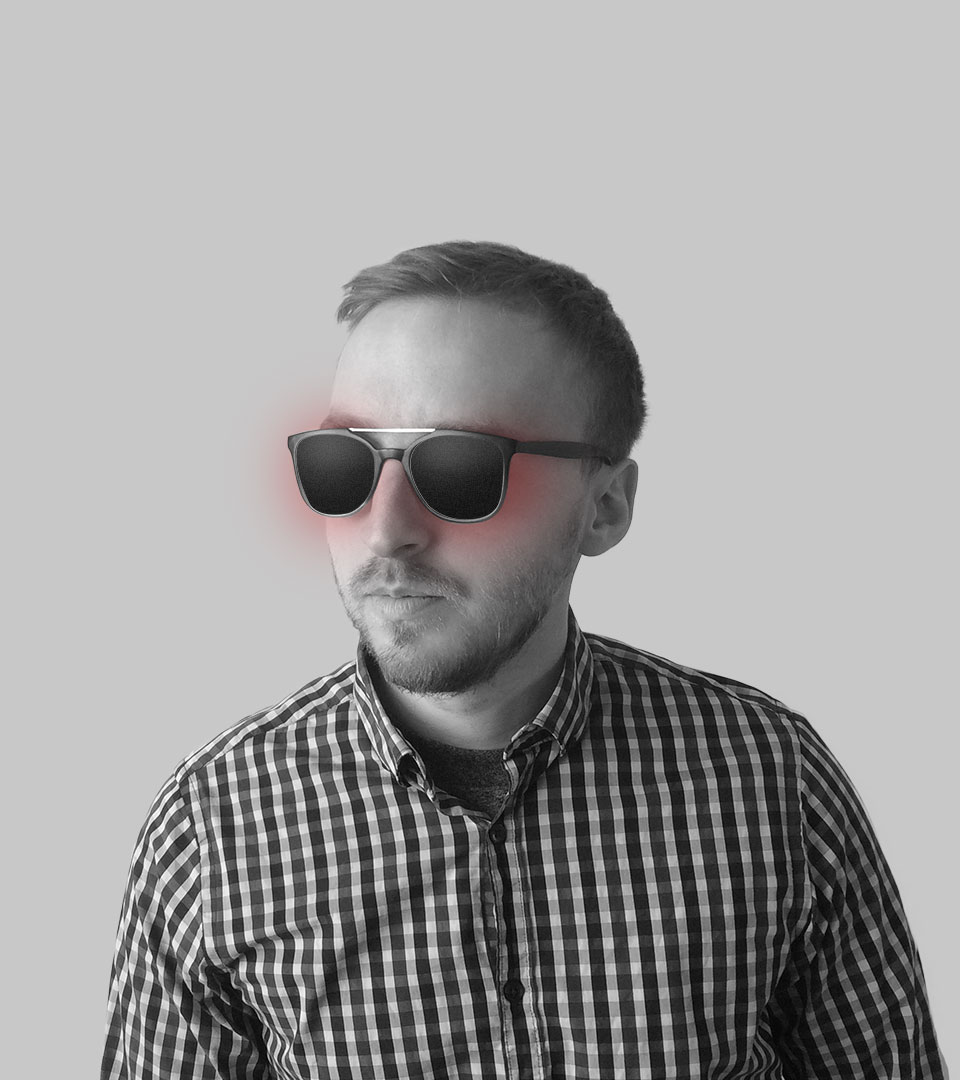
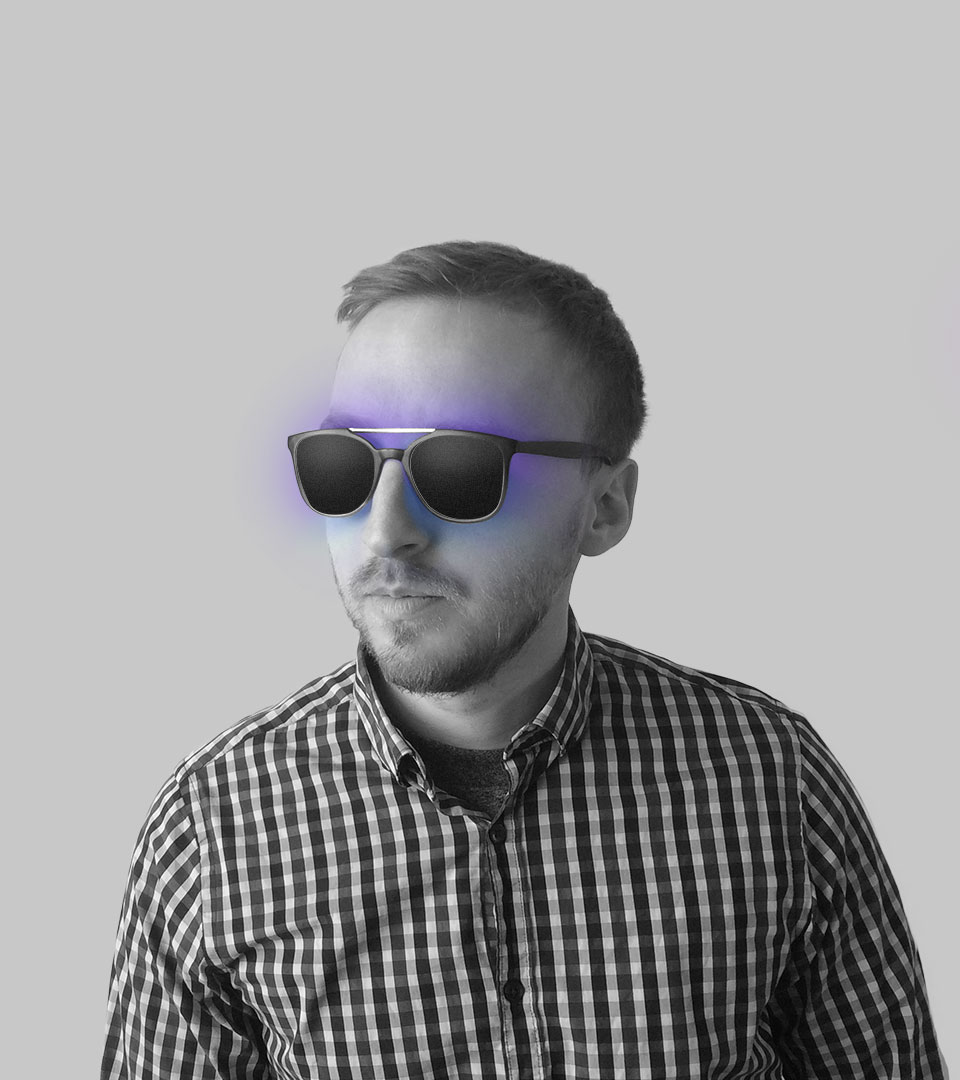
fixed colors, bg img
color: #26C6D0

Changed region(s): [[0.2812, 0.3667, 0.5938, 0.5194]]

diff --git a/index.html b/index.html
@@ -34,8 +34,7 @@
 
   </div>
     <div class="aboutme">
-      <h1>About Me</h1>
-      <p><a>#FF5656</a> means a series of numbers for you. But it can be a good color for a button. This is how I realize the world around me over 8 years.</p>
+      <p><a>#26C6D0</a> means a series of numbers for you. But it can be a good color for a button. This is how I realize the world around me over 8 years.</p>
       <p>I always preferred the community-based knowledge, that’s why I trained myself. My skills/perspective came from the digital world. But I never forget the oldest tools: paper and pen to sketch my ideas. I always looking for new challenges in my life/career. I’m curious that’s the motivation for me. That was the reason why I choosed UI/UX community when I decided to leave the print materials.
       </p>
       <p>No matters how many times I should redesign the creative because we need to find the highest quality or closest answer to the solution. Imho new games/apps/methods are always fun especially the difficult ones. Maybe this is the source of my beta addictions.
@@ -48,7 +47,7 @@
 
 
     <ul class="externallinks">
-      <h1>Projects and Social</h1>
+      <h1>Projects and Socials</h1>
       <li><a href="http://hu.linkedin.com/in/akoskovacsme">+ LinkedIn</a></li>
       <li><a href="http://behance.com/akoskovacsme">+ Behance</a></li>
       <li><a href="http://dribbble.com/akoskovacsme">+ Dribbble</a></li>

diff --git a/style.css b/style.css
@@ -39,14 +39,14 @@ a {
 }
 
 a:hover{
-  color: #FF5656;
+  color: #26C6D0;
 }
 
 h1 {
   text-transform: uppercase;
   font-weight: 700;
   font-size: 20px;
-  color: #6A7EFC;
+  color: #26C6D0;
 }
 
 /*BODY ELEMENTS STYLE*/
@@ -99,6 +99,12 @@ h1 {
 }
 
 /* BREAKPOINTS*/
+  @media screen and (max-width: 1400px) { /* Specific to this particular image */
+    body {
+      background-image: none;
+    }
+
+
 @media screen and (min-width: 320px) { /* Specific to this particular image */
   /*LAYOUT STYLE*/
   body {
@@ -114,7 +120,7 @@ h1 {
     text-transform: uppercase;
     font-weight: 700;
     font-size: 60px;
-    color: #6A7EFC;
+     color: #26C6D0
   }
 
   /*BODY ELEMENTS STYLE*/
@@ -160,7 +166,7 @@ h1 {
       text-transform: uppercase;
       font-weight: 700;
       font-size: 30px;
-      color: #6A7EFC;
+
     }
 
     /*BODY ELEMENTS STYLE*/
@@ -211,7 +217,7 @@ h1 {
           text-transform: uppercase;
           font-weight: 700;
           font-size: 30px;
-          color: #6A7EFC;
+
         }
 
         /*BODY ELEMENTS STYLE*/
@@ -248,8 +254,3 @@ h1 {
           display: block;
 
         }
-
-    @media screen and (max-width: 1400px) { /* Specific to this particular image */
-      body {
-        background-image: none;
-      }
